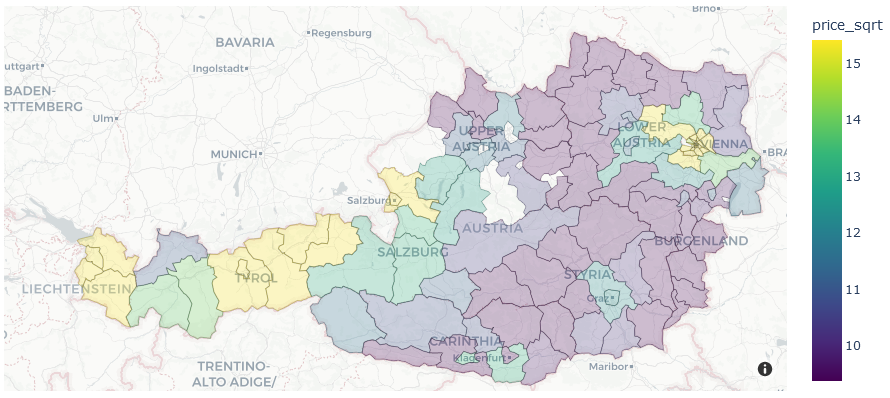
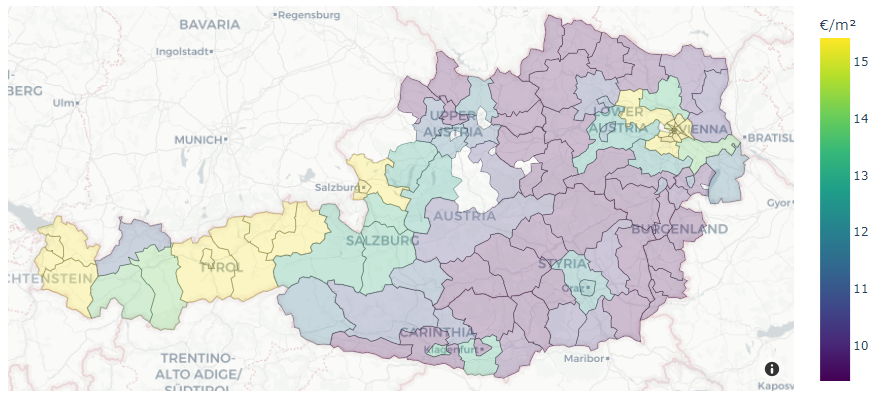
Updated readme
images and logo were also updated/added

diff --git a/README.md b/README.md
@@ -1,14 +1,54 @@
-### Installation
+<div align="center">
+  <a href="https://github.com/othneildrew/Best-README-Template">
+    <img src="img/logo.png" alt="Logo" width="80" height="80">
+  </a>
+  <h3 align="center">Austrian Housing Market Analysis</h3>
+  <p align="center">
+    A data-driven analysis using Austrian real estate online platform data
+    <br />
+    <a href="https://medium.com/@arlin.gruber/how-data-science-can-give-you-an-edge-in-real-estate-investing-1849255d7c33">Summary</a>
+  </p>
+</div>
+
+<!-- TABLE OF CONTENTS -->
+<details>
+  <summary>Table of Contents</summary>
+  <ol>
+    <li>
+      <a href="#about-the-project">About The Project</a>
+    </li>
+    <li>
+      <a href="#getting-started">Getting Started</a>
+      <ul>
+        <li><a href="#installation">Installation</a></li>
+        <li><a href="#view-notebook">View Notebook</a></li>
+      </ul>
+    </li>
+    <li><a href="#results">Results</a></li>
+  </ol>
+</details>
+
+### About The Project
+Real estate information of a particular region or location is not 
+easy to come by. In this notebook we investigate an Austrian real estate data set which has been mined
+extracted over the course of a week from a large online portal. The data has already been 
+pre-processed and can be geospatial investigated.
+
+### Getting Started
+#### Installation
 No additional libraries beyond the Anaconda distribution of Python are necessary. The code should 
 run with no issues using Python version 3.8
 
-### Motivation
-Real estate information of a particular region or location is not 
-easy to come by. In this notebook we investigate an Austrian real estate data set which has been mined
-extracted over the course of one week from a large online portal. The data has already been 
-pre-processed and can be regional investigated.
+#### View Notebook
+In order to view the rendered geospatial charts of the Jupyter notebook go to [nbviewer](https://nbviewer.org/) and
+copy the link.
 
-<img src="https://github.com/AReburg/Austrian-Real-Estate-Analysis/blob/main/img/property_price_district_level.PNG" width="500"/>
+
+<figure>
+<img src="https://github.com/AReburg/Austrian-Real-Estate-Analysis/blob/main/img/property_price_district_level.PNG" alt="Austrian apartment property prices " style="width=500px">
+<figcaption align = "center"><b>Rental apartment prices on district level</b></figcaption>
+</figure>
+
 
 ### Results
 The main findings of the code can be found at the post available [here](https://medium.com/@arlin.gruber/how-data-science-can-give-you-an-edge-in-real-estate-investing-1849255d7c33).
